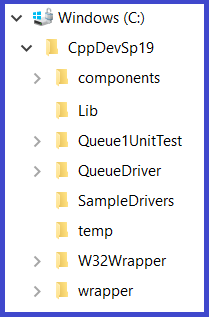
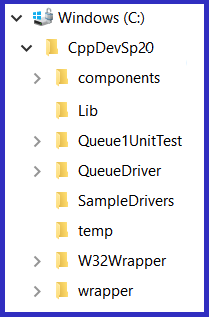
L0

Changed region(s): [[0.0, 0.0, 1.0, 1.0], [0.6571, 0.1132, 0.7143, 0.1698]]

diff --git a/Assignments/Lab0/L0.html b/Assignments/Lab0/L0.html
@@ -8,7 +8,7 @@
 
 <body>
 	
-<h1>Setup CppDevSp19 Folder</h1>
+<h1>Setup CppDevSp20 Folder</h1>
 
 <table style="width: 100%;" border="0">
 <tbody>
@@ -16,22 +16,22 @@
 <td valign="top">
 <h5>Overview</h5>
 <ul>
-<li>The&nbsp;CppDevSp19 folder contains software components that you will be using this quarter when writing your software and it is where you will store all your CSSE373 software development lab assignments</li>
+<li>The&nbsp;CppDevSp20 folder contains software components that you will be using this quarter when writing your software and it is where you will store all your CSSE373 software development lab assignments</li>
 <li>It is recommended that you place this folder on your computer's C:\ drive, and work exclusively from this folder throughout quarter</li>
 </ul>
 <h5>Instructions</h5>
 <ol>
-<li>Download CppDevSp19.zip from the <em>L0 </em>Moodle assignment</li>
+<li>Download CppDevSp20.zip from the <em>L0 </em>Moodle assignment</li>
 <li>Once it is downloaded, find the .zip on your hard-drive and then navigate into  the .zip by double clicking on it</li>
-<li>Once inside the zip, copy the folder found inside (called "CppDevSp19") to your C:\ drive</li>
-<li>After the CppDevSp19 folder has been placed onto your C:\ drive,&nbsp;it should look similar to the screen shot to the right</li>
+<li>Once inside the zip, copy the folder found inside (called "CppDevSp20") to your C:\ drive</li>
+<li>After the CppDevSp20 folder has been placed onto your C:\ drive,&nbsp;it should look similar to the screen shot to the right</li>
 </ol>
 <h5>Turn In</h5>
 <ul>
-  <li>Upload to the <em>L0</em> Moodle assignment a .png (or .jpg) containing a screen shot similar to the one to the right, with the CppDevSp19 folder expanded and  also showing at least 2 or 3 other folders on your machine's C:\ drive</li>
+  <li>Upload to the <em>L0</em> Moodle assignment a .png (or .jpg) containing a screen shot similar to the one to the right, with the CppDevSp20 folder expanded and  also showing at least 2 or 3 other folders on your machine's C:\ drive</li>
 </ul>
 </td>
-<td style="width: 150px;" valign="top"><img src="CppDevSp19Folder.png" width="210" height="318" alt=""/></td>
+<td style="width: 150px;" valign="top"><img src="CppDevSp20Folder.png" width="210" height="318" alt=""/></td>
 </tr>
 </tbody>
 </table>
